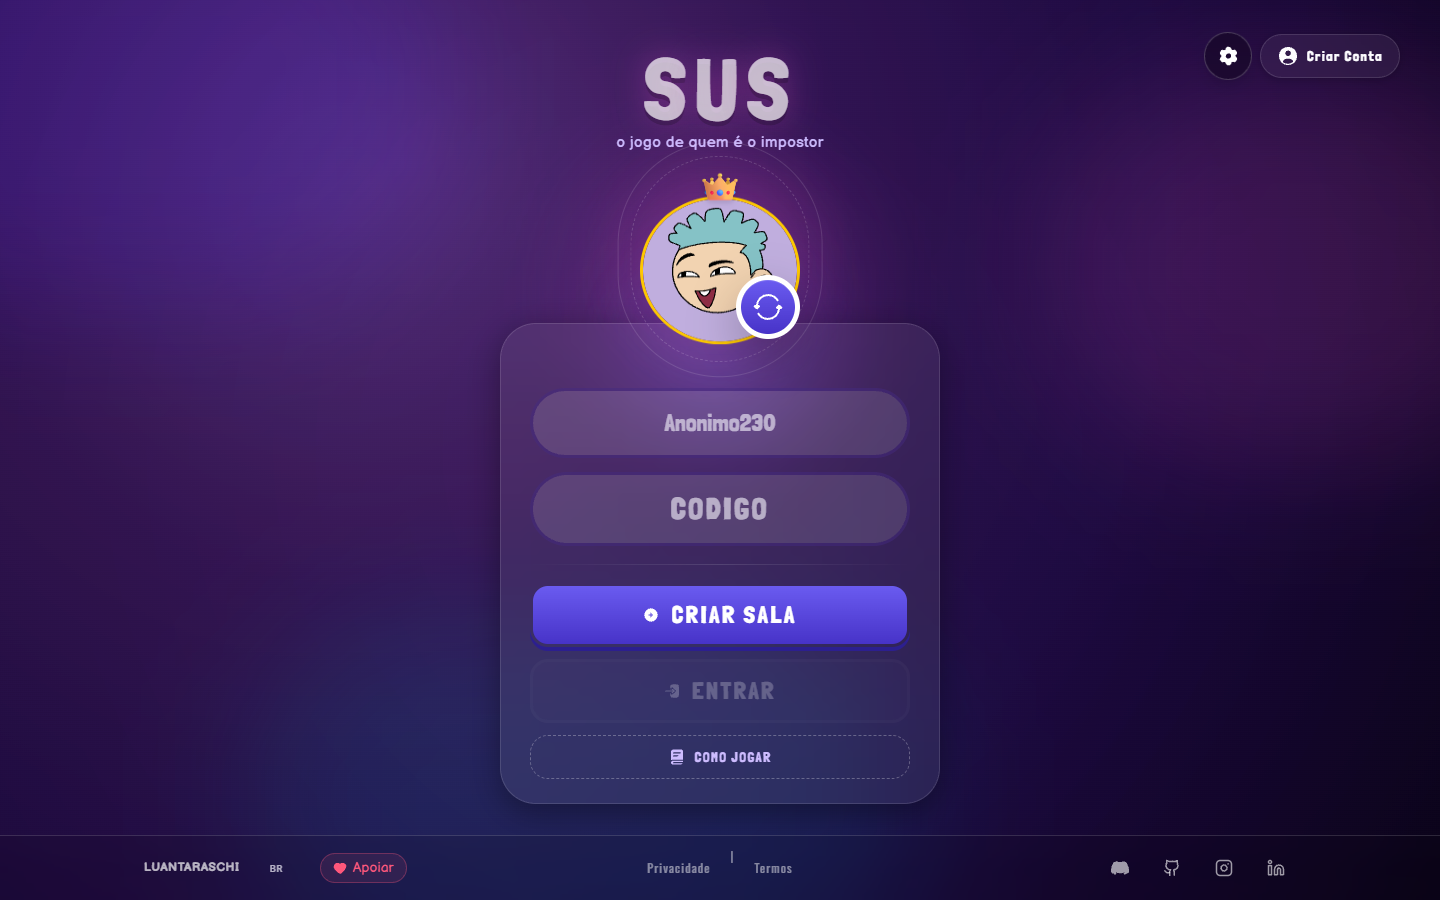
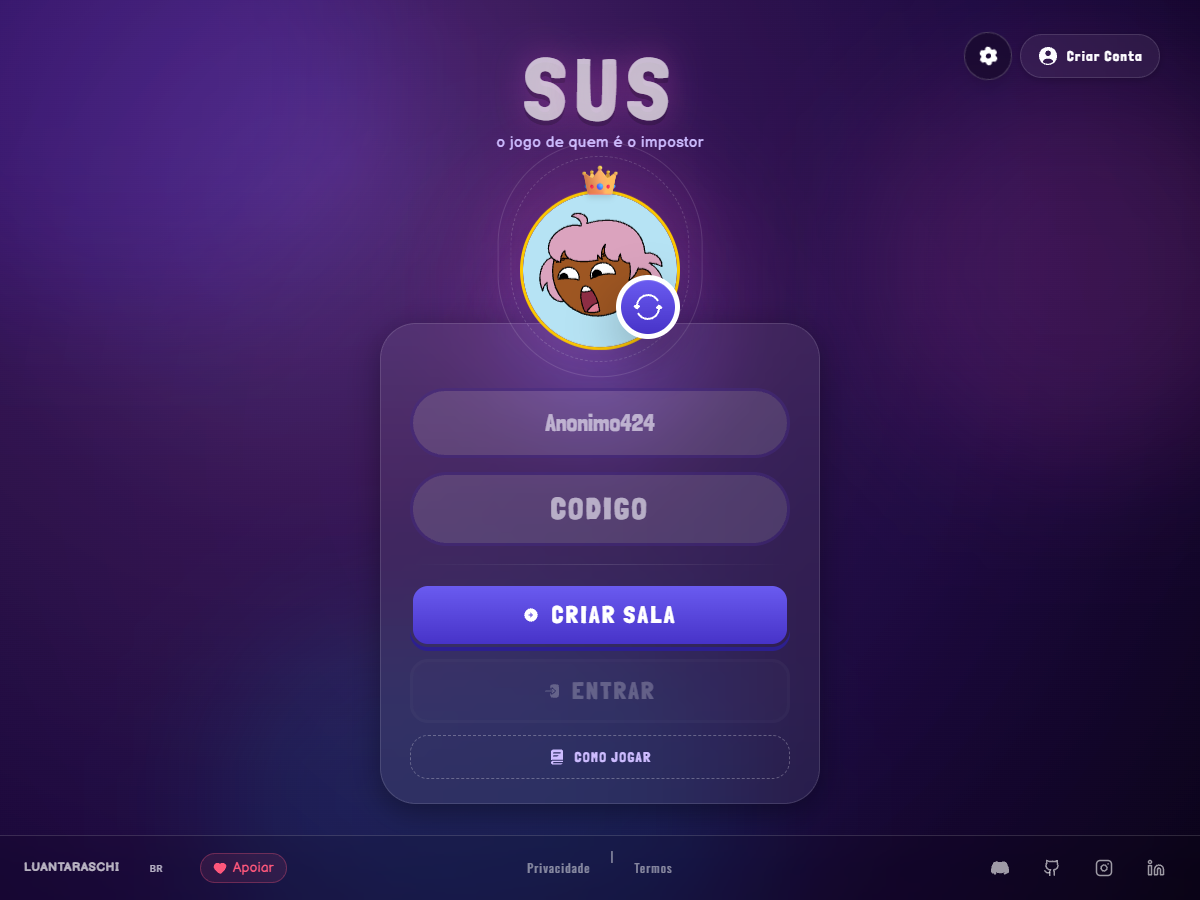
Dezessete, não quinze; capturas mais visíveis; SUS reenquadrado
O card do dev-tools contava quinze utilitários e o dashboard mostra dezessete.

O repouso das capturas subiu de 0.42 para 0.6 de brilho no escuro e de 0.2 para
0.32 de opacidade no claro: dá pra reconhecer que ali tem um sistema antes de
passar o mouse, sem que o hover deixe de revelar alguma coisa.

E o print do SUS estava torto porque a tela dele é toda centralizada, então o
recorte pelo canto superior esquerdo pegava fundo vazio de um lado e cortava o
painel do outro. Recapturei em 1200x900, que é exatamente a proporção do thumb:
não sobra recorte nenhum para o enquadramento errar.

diff --git a/css/style.css b/css/style.css
@@ -735,11 +735,14 @@ a { color: inherit; }
   width: 100%;
   height: 100%;
   object-fit: cover;
+  /* padrão para captura de sistema: a informação que importa mora no topo, e
+     centralizar cortaria justamente o cabeçalho */
   object-position: top left;
-  /* escura o bastante para o repouso continuar lendo como textura: com o véu
-     ralo do .dither-12 a captura já aparecia inteira parada, e aí o hover não
-     revelava nada porque não havia o que revelar */
-  filter: grayscale(1) contrast(1.2) brightness(0.42);
+  /* escura o bastante para o véu ainda mandar na leitura, clara o bastante para
+     dar pra reconhecer que ali tem um sistema. Abaixo disto o repouso virava
+     retícula pura e o cartão não prometia nada; acima, o hover não revelava
+     nada porque já estava tudo à mostra. */
+  filter: grayscale(1) contrast(1.15) brightness(0.6);
   transition: filter 260ms steps(4, end);
 }
 .card:hover .card__shot,
@@ -751,7 +754,7 @@ a { color: inherit; }
    cinza sobre o papel, e o hover traz ela inteira - a mesma regra que o
    componente .shot das páginas de case já segue. */
 :root[data-theme='light'] .card__shot {
-  opacity: 0.2;
+  opacity: 0.32;
   filter: grayscale(1) contrast(1.1);
   transition: opacity 260ms steps(4, end);
 }

diff --git a/index.html b/index.html
@@ -285,7 +285,7 @@ try{history.scrollRestoration="manual"}catch(e){}})()</script>
           </div>
           <div class="card__body">
             <h3 class="h3">Dev Tools</h3>
-            <p class="mono">Quinze utilitários de dev num painel só: OCR, remoção de fundo, QR, conversão de imagem, gerador de CSS. Roda no navegador.</p>
+            <p class="mono">Dezessete utilitários de dev num painel só: OCR, remoção de fundo, QR, conversão de imagem, gerador de CSS. Roda no navegador.</p>
             <div class="card__tags"><span class="tag">Next.js 15</span><span class="tag">React 19</span><span class="tag">ao vivo ↗</span></div>
           </div>
         </a>
